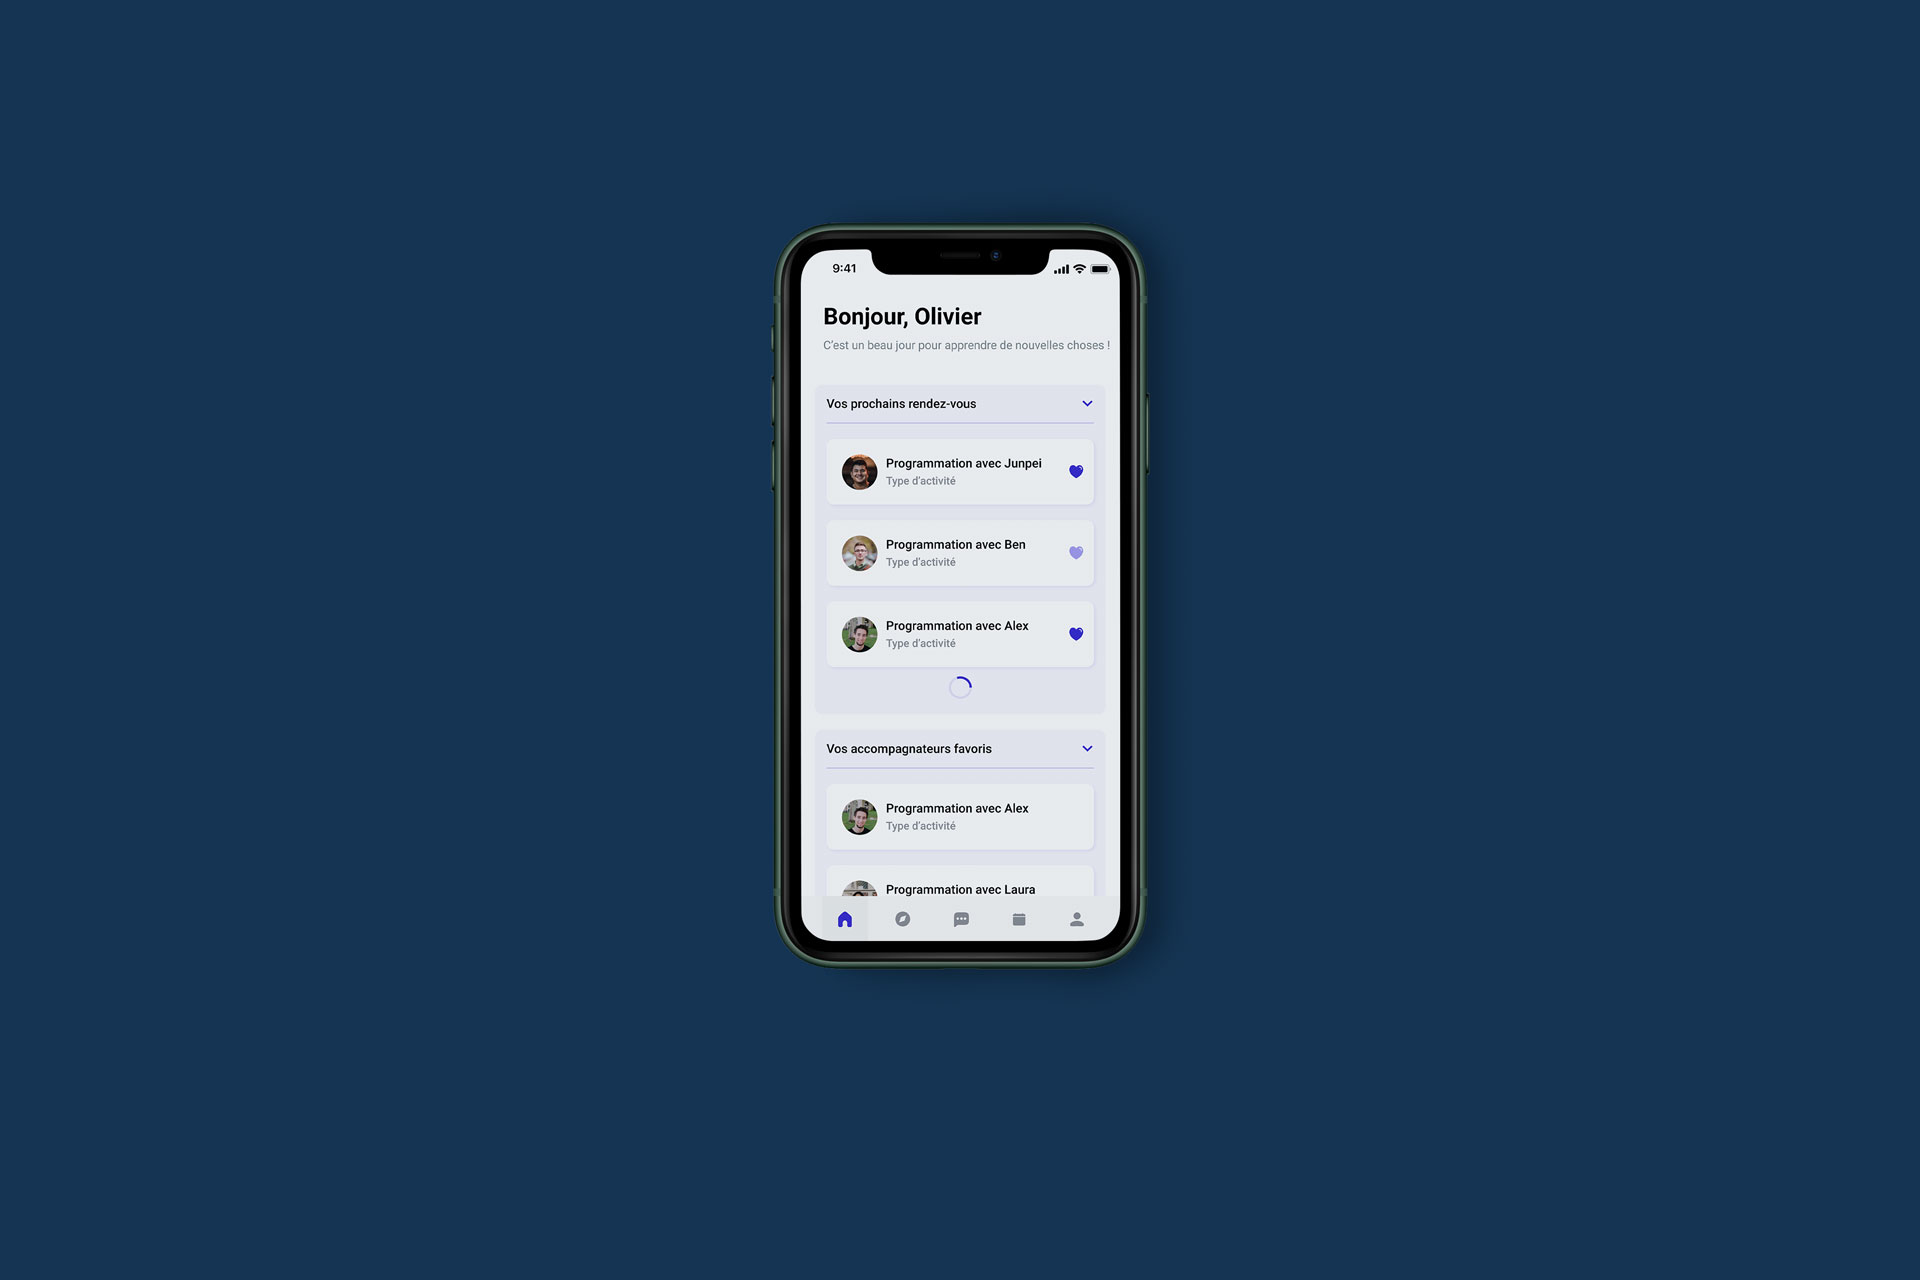
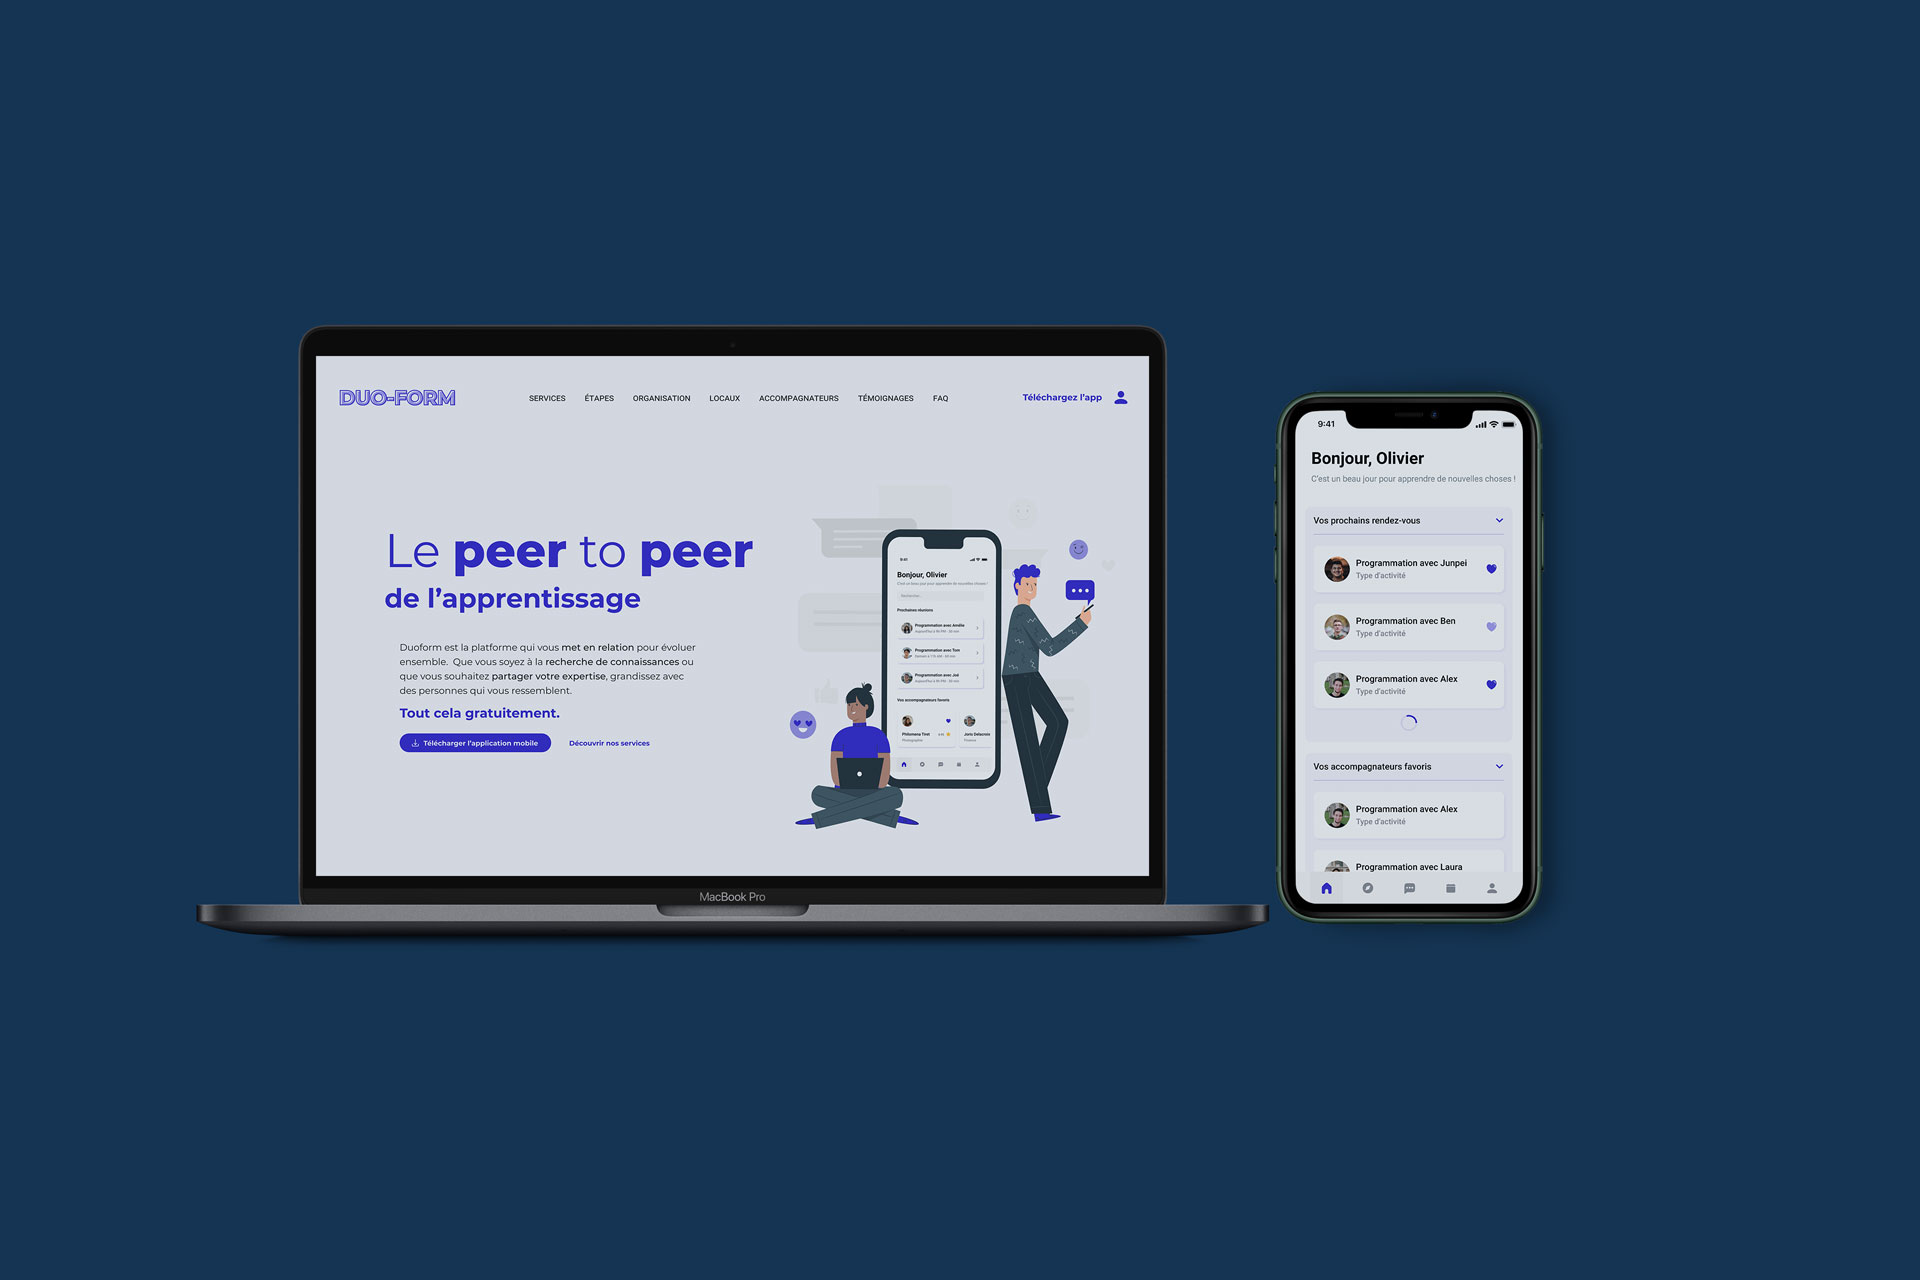
Duoform

Changed region(s): [[0.0938, 0.1562, 0.8125, 0.7812]]

diff --git a/Application-DuoForm-Gestion_de_projet.html b/Application-DuoForm-Gestion_de_projet.html
@@ -108,7 +108,7 @@
 		
 				<!-- social -->
 				<div class="menu-social-links">
-					<a href="https://www.instagram.com/bastien_boisjot/ target="blank" class="splitting-text-anim-1" data-splitting="chars">
+					<a href="https://www.instagram.com/bastien_boisjot/" target="blank" class="splitting-text-anim-1" data-splitting="chars">
 						Instagram
 					</a>
 					<a href="https://www.behance.net/bastienboisjot" target="blank" class="splitting-text-anim-1" data-splitting="chars">
@@ -179,8 +179,8 @@
 
 							<div class="col-xs-12 col-sm-12 col-md-3 col-lg-3">
 								<div class="details-label">
-									<strong>Rapport du projet:</strong>
-									<a href="">;</a>
+									<strong>Rapport du projet :</strong>
+									<a href="https://indd.adobe.com/view/31ae491b-515b-4e42-ac9e-1d21205b4968">Voir ici</a>
 								</div>
 							</div>
 							
@@ -203,89 +203,110 @@
 							<div class="description-text scrolla-element-anim-1 scroll-animate" data-animate="active">
 								<p>
 									Dans le cadre de mon Master 2, par groupe de 5 nous devions réaliser une application mobile, une landing page et une vidéo de présentation de l'application. 
-									L'équipe était composée de 3 développers, 2 UI/UX et j'étais le chef de projet. Mon rôle était de créer une cohésion d'équipe, être responsable des échéances et accompagner les étudiants de mon équipe tout au long du projet.
-								</p>
+									L'équipe était composée de 3 développers, 2 UI/UX (<a href="https://www.olivier-pouchoy.com/">Olivier Pouchoy</a>  et <a href="https://timothejoubert.com">Timothé Joubert</a> ) et j'étais le chef de projet. Mon rôle était de créer une cohésion d'équipe, être responsable des échéances, du rapport, de la cohérence graphique,... Et aussi accompagner les étudiants de mon équipe tout au long du projet.
 							</div>
 						</div>
 					</div>
 				</div>
 			</div>
-			<!-- Section Application -->
-			<div class="section section-inner m-experience m-process">
-				<div class="container">
-					<div class="row">
-						<div class="col-xs-12 col-sm-12 col-md-12 col-lg-10 offset-1">
 
-							<div class="m-titles">
-								<div class="m-title splitting-text-anim-1 scroll-animate" data-splitting="chars" data-animate="active">
-									Rendu de l'application								</div>
-
-							<!-- experience carousel -->
-							<div class="experience-carousel scrolla-element-anim-1 scroll-animate" data-animate="active" data-dispimgpath="images/pointilize.jpg">
-								
-								<!-- slides -->
-								<div class="swiper-container">
-									<div class="swiper-wrapper">
-
-										<iframe style="border: 1px solid rgba(0, 0, 0, 0.1);" width="1600" height="700" src="https://www.figma.com/embed?embed_host=share&url=https%3A%2F%2Fwww.figma.com%2Fproto%2FnfJlkaNfg3XCrsIhJkYYU7%2FDUO-FORM%257C%3Fpage-id%3D323%253A368%26node-id%3D338%253A989%26viewport%3D241%252C48%252C0.05%26scaling%3Dcontain%26starting-point-node-id%3D338%253A989" allowfullscreen></iframe>										</div>
-								</div>
-
-								
-
-								
-
-							</div>
-
-						</div>
-					</div>
-				</div>
-			</div>
-				<!-- Section Application -->
+				<!-- Section Process Slider -->
 				<div class="section section-inner m-experience m-process">
 					<div class="container">
 						<div class="row">
 							<div class="col-xs-12 col-sm-12 col-md-12 col-lg-10 offset-1">
 	
-								<div class="m-titles">
-									<div class="m-title splitting-text-anim-1 scroll-animate" data-splitting="chars" data-animate="active">
-										Rendu de la landing page								</div>
-	
-								<!-- experience carousel -->
+								
+								<!-- Section Application  -->
 								<div class="experience-carousel scrolla-element-anim-1 scroll-animate" data-animate="active" data-dispimgpath="images/pointilize.jpg">
 									
-									<!-- slides -->
-									<div class="swiper-container">
-										<div class="swiper-wrapper">
+									<!-- Application -->
+									<div class="m-titles">
+										<div class="m-title splitting-text-anim-1 scroll-animate" data-splitting="chars" data-animate="active">
+											Rendu de l'application								</div>
+		
+									<!-- experience carousel -->
+									<div class="experience-carousel scrolla-element-anim-1 scroll-animate" data-animate="active" data-dispimgpath="images/pointilize.jpg">
+										
+										<!-- App -->
+										<div class="swiper-container">
+											<div class="swiper-wrapper">
+		
+												<iframe style="border: 1px solid rgba(0, 0, 0, 0.1);" width="1600" height="700" src="https://www.figma.com/embed?embed_host=share&url=https%3A%2F%2Fwww.figma.com%2Fproto%2FnfJlkaNfg3XCrsIhJkYYU7%2FDUO-FORM%257C%3Fpage-id%3D323%253A368%26node-id%3D338%253A989%26viewport%3D241%252C48%252C0.05%26scaling%3Dcontain%26starting-point-node-id%3D338%253A989" allowfullscreen></iframe>										</div>
+										</div>
+		
+										
+		
+										
+		
+									</div>
+		
+								</div>
 	
-											<iframe style="border: 1px solid rgba(0, 0, 0, 0.1);" width="1600" height="900" src="https://www.figma.com/embed?embed_host=share&url=https%3A%2F%2Fwww.figma.com%2Fproto%2FnfJlkaNfg3XCrsIhJkYYU7%2FDUO-FORM%257C%3Fpage-id%3D323%253A3%26node-id%3D323%253A4%26viewport%3D241%252C48%252C0.07%26scaling%3Dscale-down-width%26starting-point-node-id%3D323%253A4" allowfullscreen></iframe>	
-									
-	
-									
+								
 	
 								</div>
 	
-							</div>
+							
 						</div>
+						
+						
 					</div>
+					
 				</div>
-	<!-- Section Vidéo -->
-	<div class="section section-inner m-experience m-process">
-		<div class="container">
-			<div class="row">
-				<div class="col-xs-12 col-sm-12 col-md-12 col-lg-10 offset-1">
+<!-- Section Landing -->
+<div class="section section-inner m-experience m-process">
+	<div class="container">
+		<div class="row">
+			<div class="col-xs-12 col-sm-12 col-md-12 col-lg-10 offset-1">
+<br>
+<br>
+<br>
+				<div class="m-titles">
+					<div class="m-title splitting-text-anim-1 scroll-animate" data-splitting="chars" data-animate="active">
+						Rendu de la landing page								</div>
 
-					<div class="m-titles">
-						<div class="m-title splitting-text-anim-1 scroll-animate" data-splitting="chars" data-animate="active">
-							 Vidéo de présentation							</div>
+				<!-- Landing -->
+				<div class="experience-carousel scrolla-element-anim-1 scroll-animate" data-animate="active" data-dispimgpath="images/pointilize.jpg">
+					
+					<!-- slides -->
+					<div class="swiper-container">
+						<div class="swiper-wrapper">
 
-					<!-- experience carousel -->
-					<div class="experience-carousel scrolla-element-anim-1 scroll-animate" data-animate="active" data-dispimgpath="images/pointilize.jpg">
-						<iframe width="1120" height="630" src="https://www.youtube.com/embed/IYXpJTErJ2c" title="YouTube video player" frameborder="0" allow="accelerometer; autoplay; clipboard-write; encrypted-media; gyroscope; picture-in-picture" allowfullscreen></iframe>					</div>
+							<iframe style="border: 1px solid rgba(0, 0, 0, 0.1);" width="1600" height="900" src="https://www.figma.com/embed?embed_host=share&url=https%3A%2F%2Fwww.figma.com%2Fproto%2FnfJlkaNfg3XCrsIhJkYYU7%2FDUO-FORM%257C%3Fpage-id%3D323%253A3%26node-id%3D323%253A4%26viewport%3D241%252C48%252C0.07%26scaling%3Dscale-down-width%26starting-point-node-id%3D323%253A4" allowfullscreen></iframe>	
+					
+
+					
 
 				</div>
+
 			</div>
 		</div>
 	</div>
+</div>
+</div>
+</div>
+</div>
+
+<!-- Section Vidéo -->
+<div class="section section-inner m-experience m-process">
+	<div class="container">
+		<div class="row">
+			<div class="col-xs-12 col-sm-12 col-md-12 col-lg-10 offset-1">
+
+				<div class="m-titles">
+					<div class="m-title splitting-text-anim-1 scroll-animate" data-splitting="chars" data-animate="active">
+						 Vidéo de présentation							</div>
+
+				<!-- Vidéo -->
+				<div class="experience-carousel scrolla-element-anim-1 scroll-animate" data-animate="active" data-dispimgpath="images/pointilize.jpg">
+					<iframe width="1120" height="630" src="https://www.youtube.com/embed/IYXpJTErJ2c" title="YouTube video player" frameborder="0" allow="accelerometer; autoplay; clipboard-write; encrypted-media; gyroscope; picture-in-picture" allowfullscreen></iframe>					</div>
+
+			</div>
+		</div>
+	</div>
+</div>
+		</div>
 				
 	
 			
@@ -298,10 +319,10 @@
 							<div class="col-xs-12 col-sm-12 col-md-12 col-lg-11 offset-1">
 								<div class="desc">
 									<div class="subname splitting-text-anim-1 scroll-animate" data-splitting="words" data-animate="active">
-										L'application repond à toutes mes
+										Bastien est un étudiant rigoureux, organisé et 	
 									</div>
 									<div class="name splitting-text-anim-2 scroll-animate" data-splitting="chars" data-animate="active">
-										attentes <br />
+										efficace <br />
 									</div>
 									<div class="label splitting-text-anim-3 scroll-animate" data-splitting="chars" data-animate="active">
 										- Quang Tran
@@ -324,6 +345,8 @@
 			
 
 			
+
+			
 			<!-- Section Navigation -->
 			<div class="section section-inner m-page-navigation">
 				<div class="container">
@@ -331,14 +354,12 @@
 						<div class="col-xs-12 col-sm-12 col-md-12 col-lg-10 offset-2">
 
 							<div class="h-titles h-navs">
-
-								<a href="Charte-graphique-bastien-boisjot.html">
-	
+								<a href="Philips-Hue-bastien-boisjot.html">
 									<span class="nav-arrow splitting-text-anim-1 scroll-animate" data-splitting="chars" data-animate="active">
 										Projet suivant
 									</span>
 									<span class="h-title splitting-text-anim-2 scroll-animate" data-splitting="chars" data-animate="active">
-										Charte graphique  <br />Bastien Boisjot
+										Landing page <br />Phillips Hue
 									</span>
 								</a>
 							</div>
@@ -347,16 +368,8 @@
 					</div>
 				</div>
 			</div>
-	
-
-		</div>
-	</div>
-</div>
-</div>
-
 			
 		</div>
-		
 		
 		<!-- Footer contact-->
 		<div class="section hero-started contacts-started" data-dispimgpath="images/pointilize.jpg">

diff --git a/portfolio.html b/portfolio.html
@@ -171,6 +171,26 @@
 					<!-- works items -->
 					<div class="works-items row classic column-3-offset">
 
+						<div class="works-col col-xs-12 col-sm-6 col-md-6 col-lg-4 sorting-ui">
+							<div class="works-item scrolla-element-anim-1 scroll-animate" data-animate="active">
+								<a href="Application-DuoForm-Gestion_de_projet.html">
+									<span class="image">
+										<span class="img">
+											<img src="images/Portfolio-Bastien-boisjot/Bastien-projet_DuoForm/Vignette-Bastien-Duoform-telephone.jpg" alt="" />
+										</span>
+									</span>
+									<span class="desc">
+										<span class="category splitting-text-anim-3" data-splitting="words">
+											Application & Charte graphique
+										</span>
+										<span class="name splitting-text-anim-3" data-splitting="words">
+											Duoform
+										</span>
+									</span>
+								</a>
+							</div>
+						</div>
+
 						<div class="works-col col-xs-12 col-sm-6 col-md-6 col-lg-4 sorting-gra">
 							<div class="works-item scrolla-element-anim-1 scroll-animate" data-animate="active">
 								<a href="Gael-Cecile-mariage-bastien-boisjot.html">

diff --git a/St-Martin-bastien-boisjot.html b/St-Martin-bastien-boisjot.html
@@ -282,12 +282,12 @@
 						<div class="col-xs-12 col-sm-12 col-md-12 col-lg-10 offset-2">
 
 							<div class="h-titles h-navs">
-								<a href="huggy-bastien-boisjot.html">
+								<a href="Application-DuoForm-Gestion_de_projet.html">
 									<span class="nav-arrow splitting-text-anim-1 scroll-animate" data-splitting="chars" data-animate="active">
 										Projet suivant
 									</span>
 									<span class="h-title splitting-text-anim-2 scroll-animate" data-splitting="chars" data-animate="active">
-										Maquette <br />Application Huggy
+										Application <br />DuoForm
 									</span>
 								</a>
 							</div>

diff --git a/galerie.html b/galerie.html
@@ -194,6 +194,7 @@
 								<a href="#gallery-4" class="has-popup-gallery">
 									<div class="image">
 										<div class="img">
+											
 											<img src="images\Galerie Bastien Boisjot\Bastien-photo-Miniatures\Bastien-Boisjot-Miniature-35.jpg"
 												alt="" />
 										</div>
